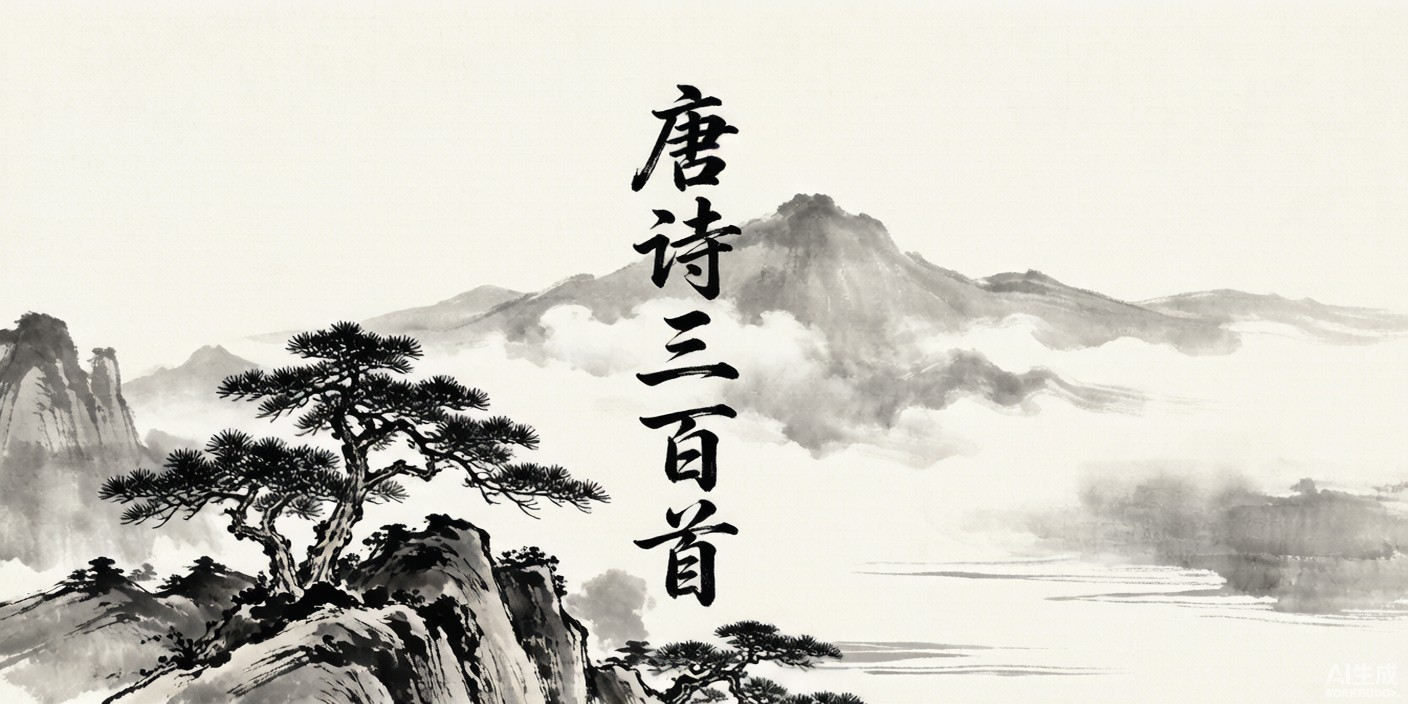
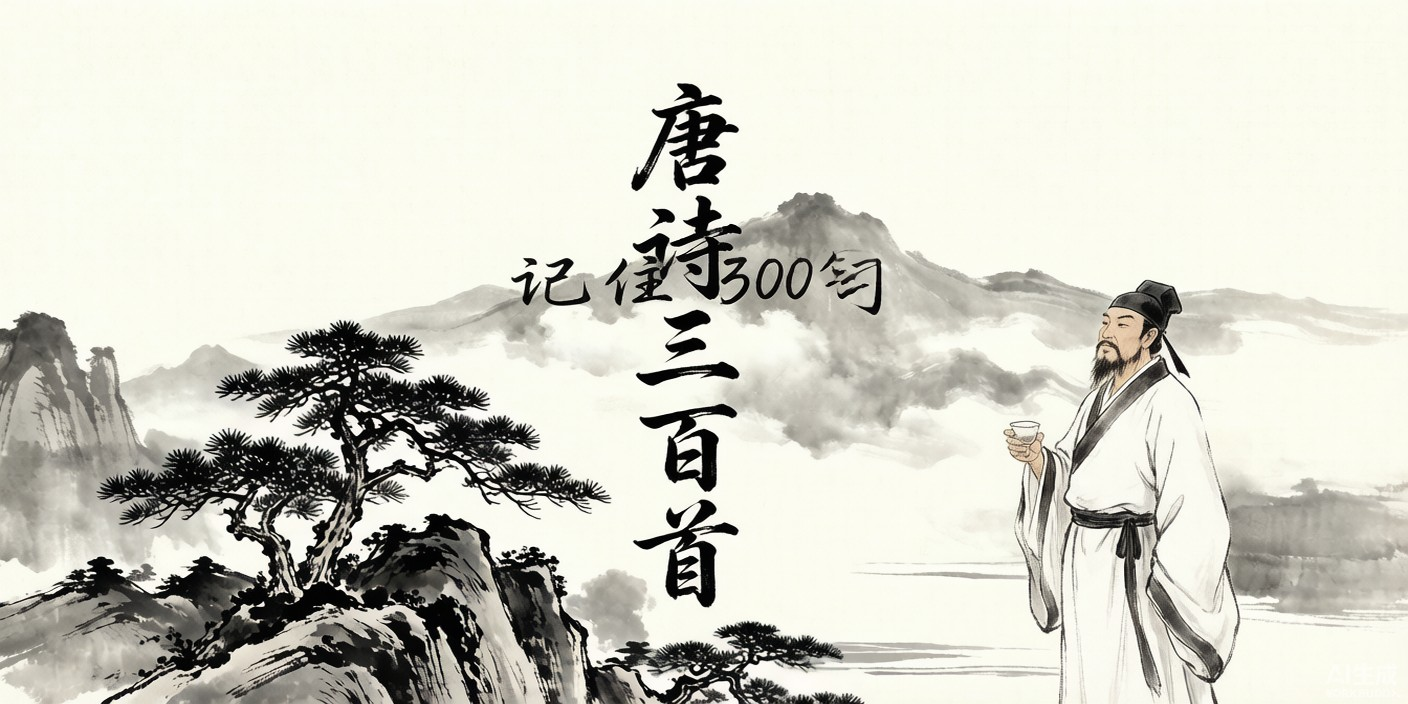
chore: 首页添加'记住300句'文字和李白水墨画像 + cache v5

diff --git a/sw.js b/sw.js
@@ -1,5 +1,5 @@
 /* 600个绝美的诗词成语在线学习小工具 — Service Worker：离线缓存，让网页版在手机上像原生 App 一样可用 */
-const CACHE = "tang300-v4";  // v4: 替换所有卷首图和首页图为各主题匹配的水墨画
+const CACHE = "tang300-v5";  // v5: 首页添加“记住300句”文字和李白画像
 const CORE = [
   "./",
   "index.html",
